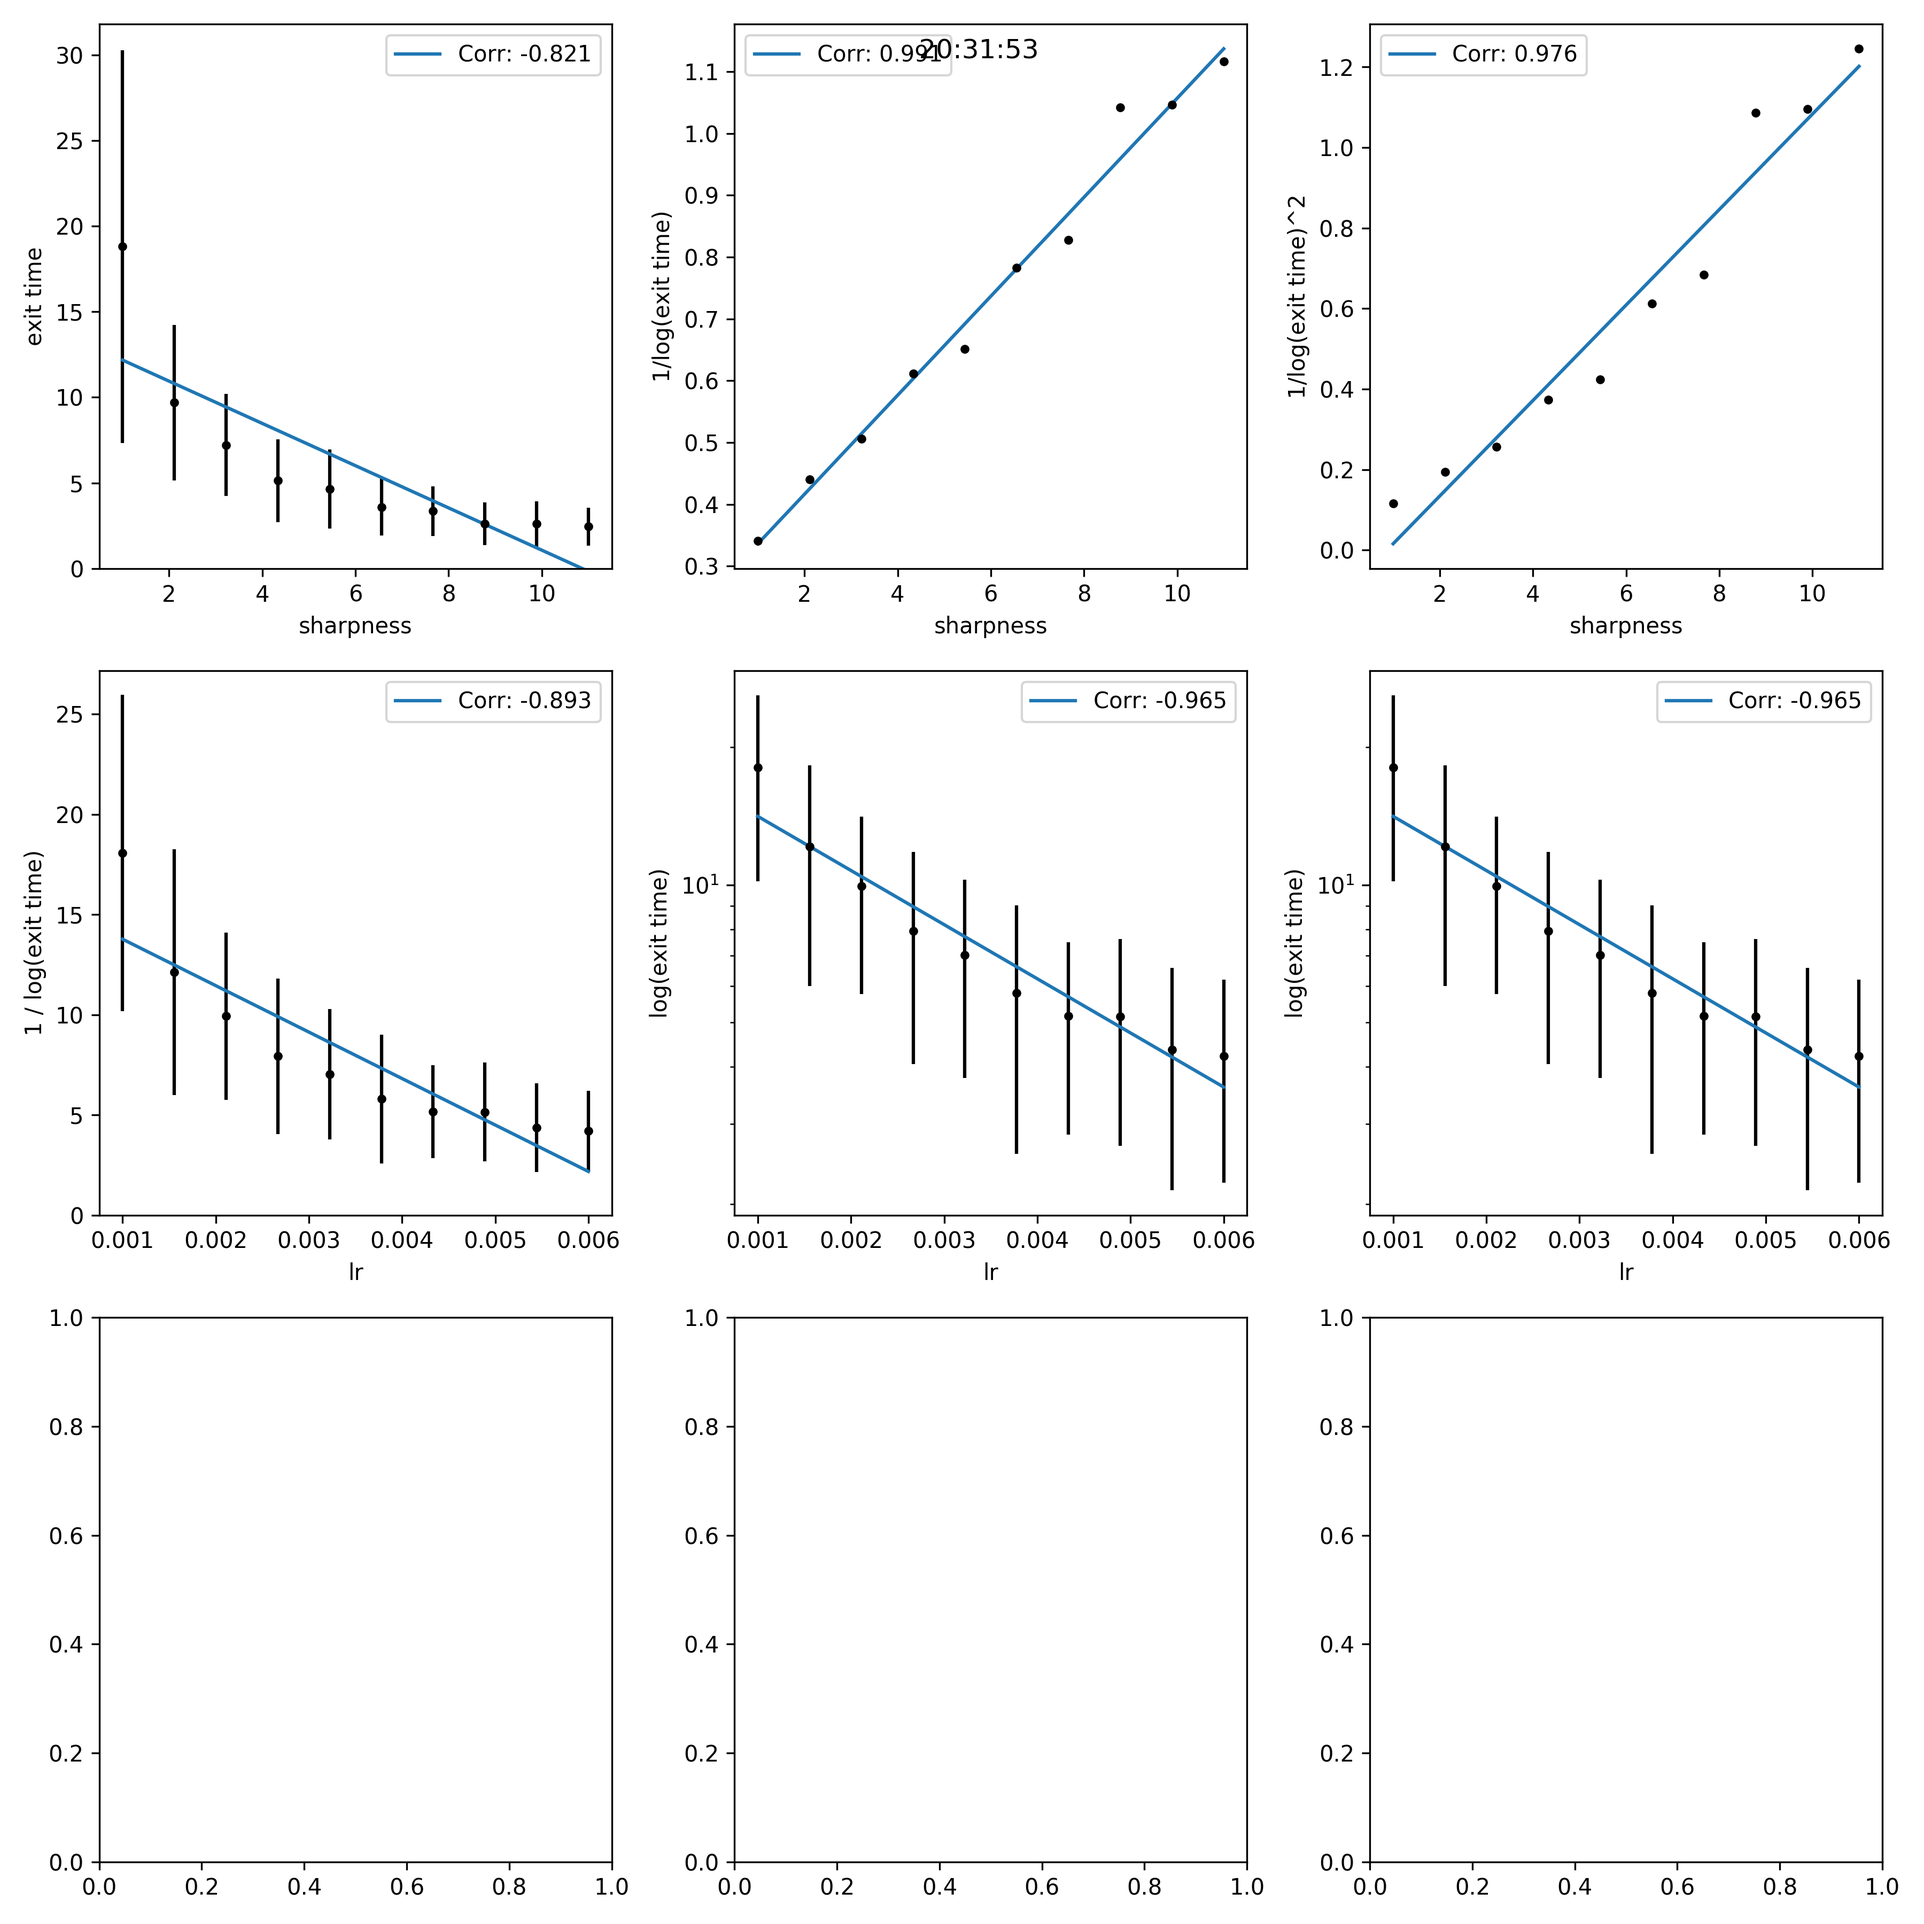
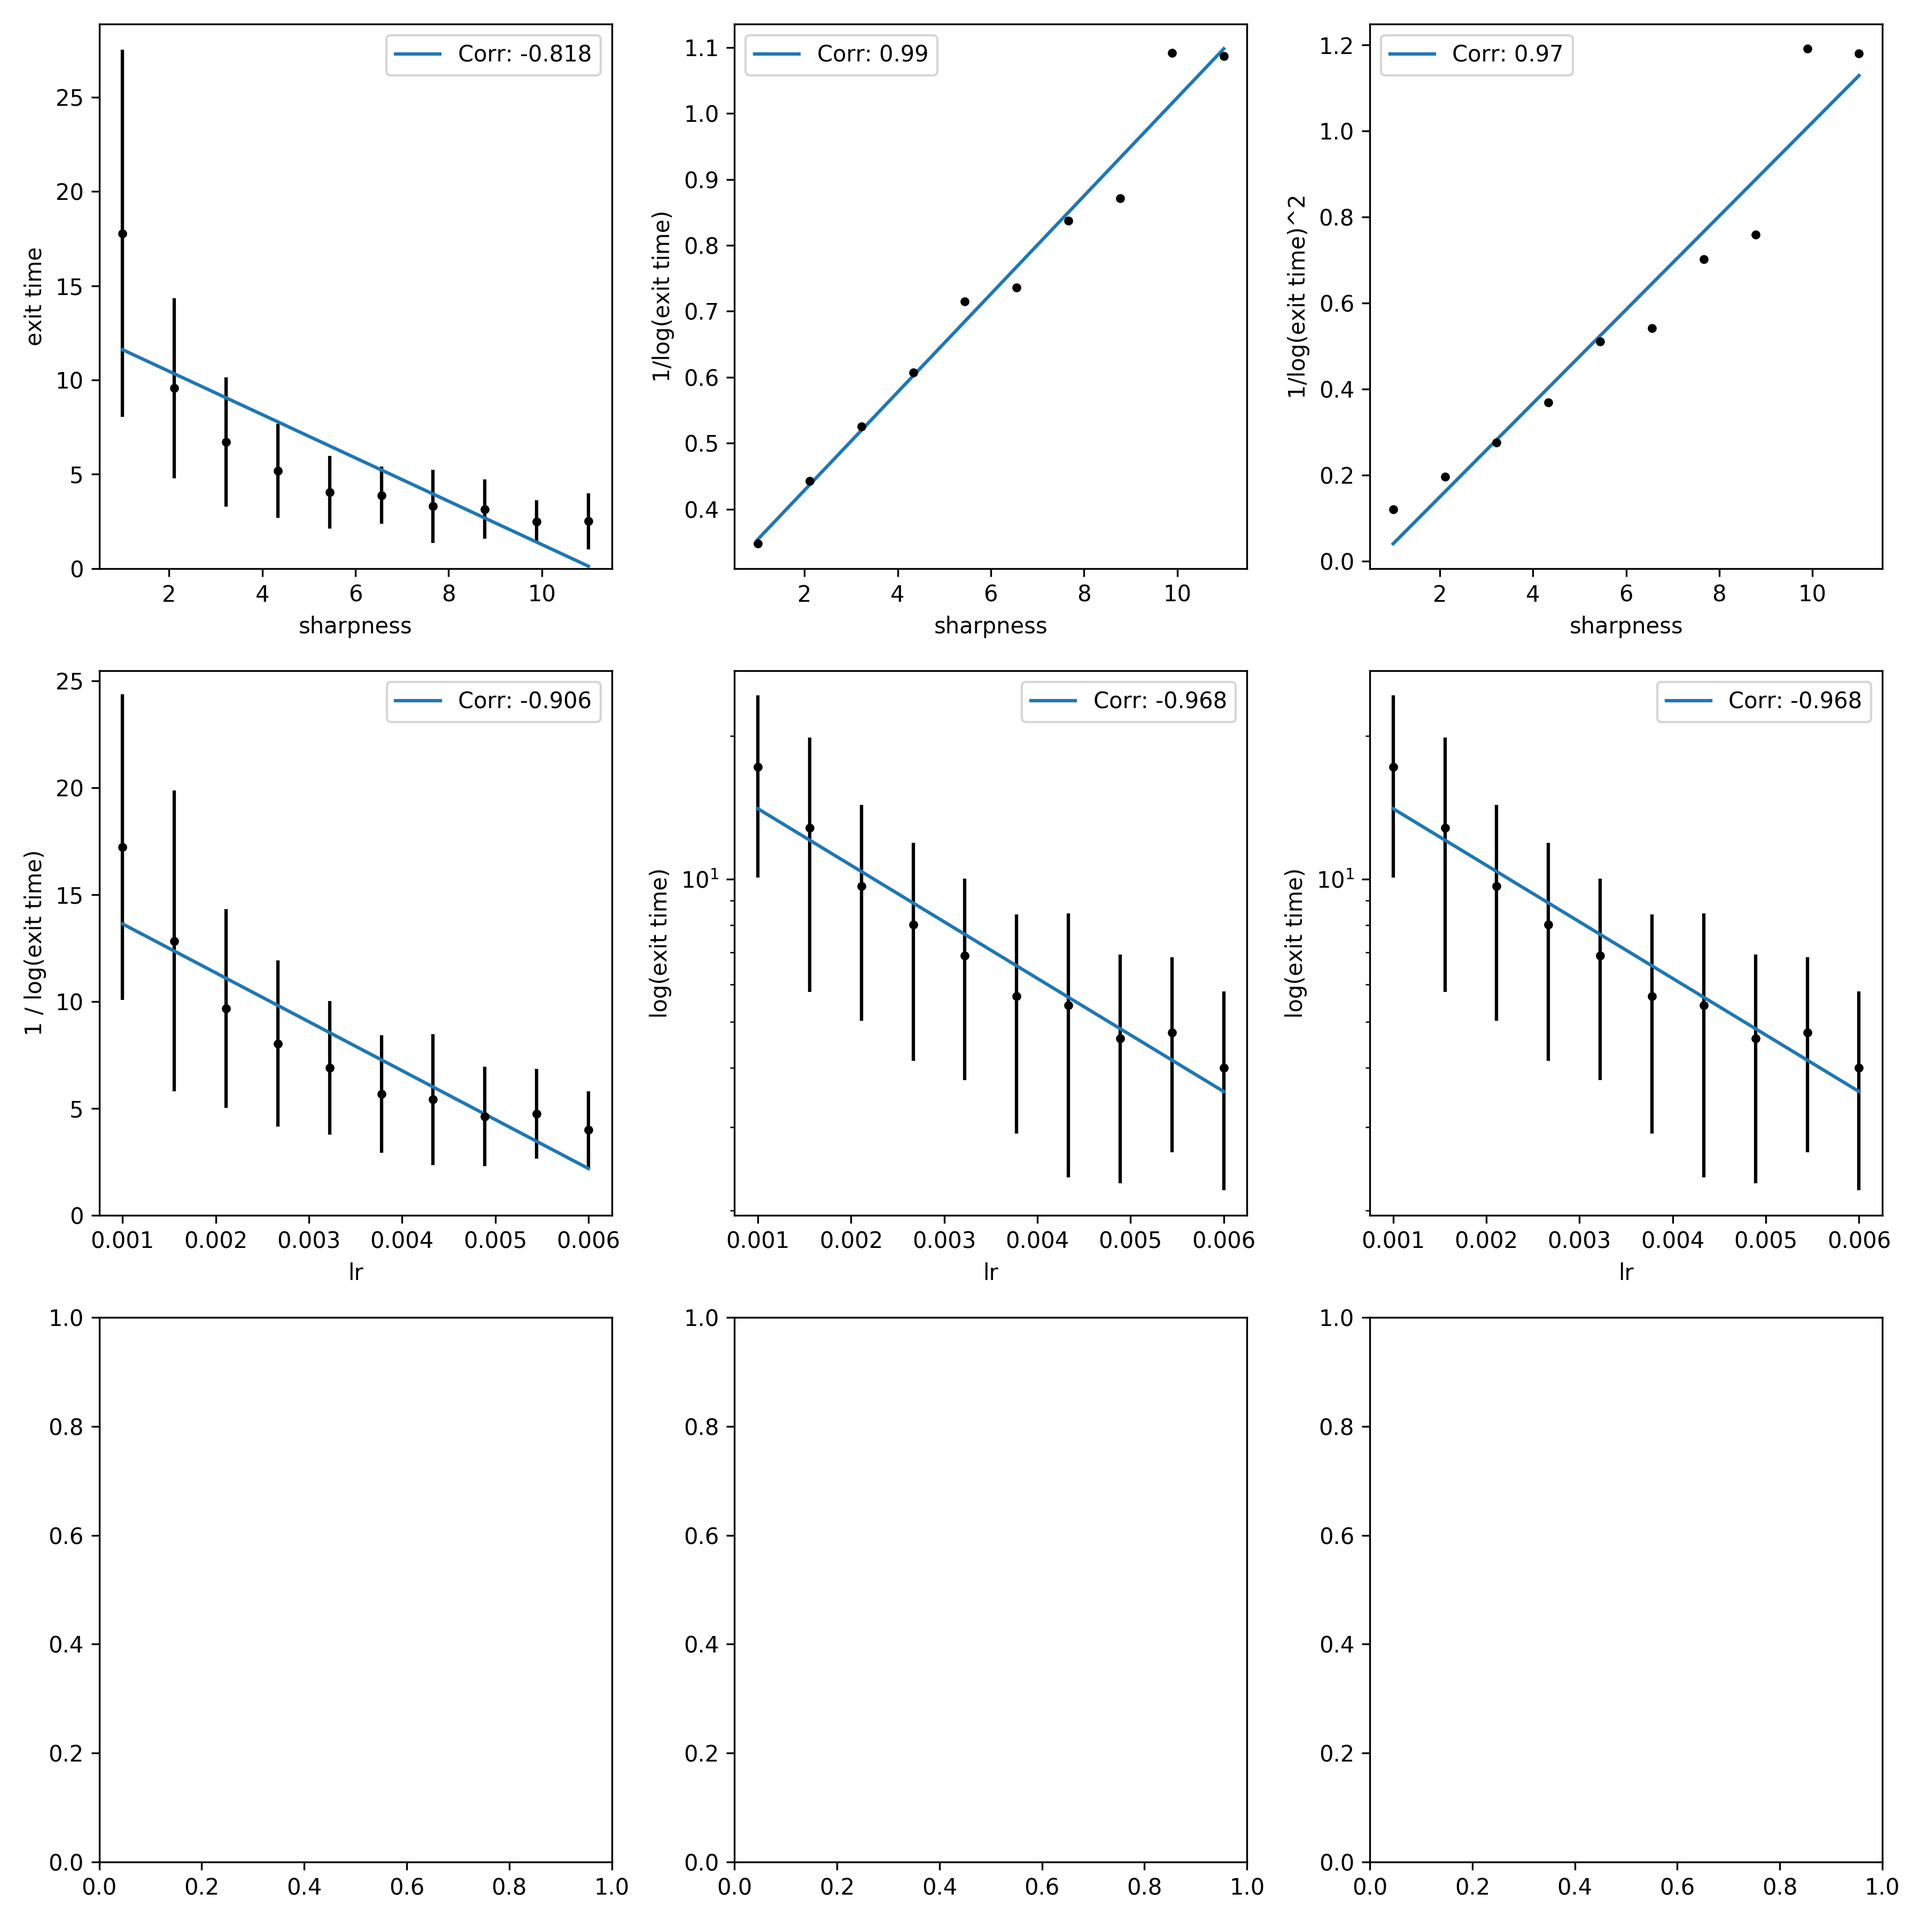
update

diff --git a/exit_time.py b/exit_time.py
@@ -191,7 +191,7 @@ def draw(sharpness_results, lr_results, batch_size_results):
     # Learning rate
     # draw_subfig(ax3, *batch_size_results, "batch_size")
 
-    plt.suptitle(datetime.datetime.now().strftime('    %H:%M:%S'))
+    # plt.suptitle(datetime.datetime.now().strftime('    %H:%M:%S'))
     plt.tight_layout()
     plt.show()
     fig.savefig("results.png",dpi=300)
